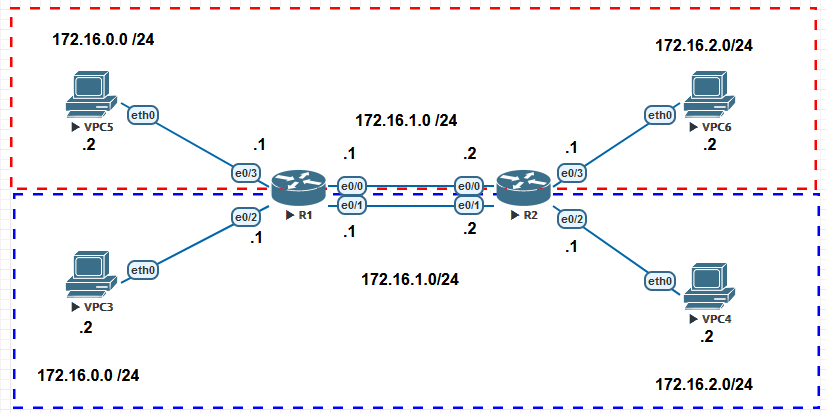
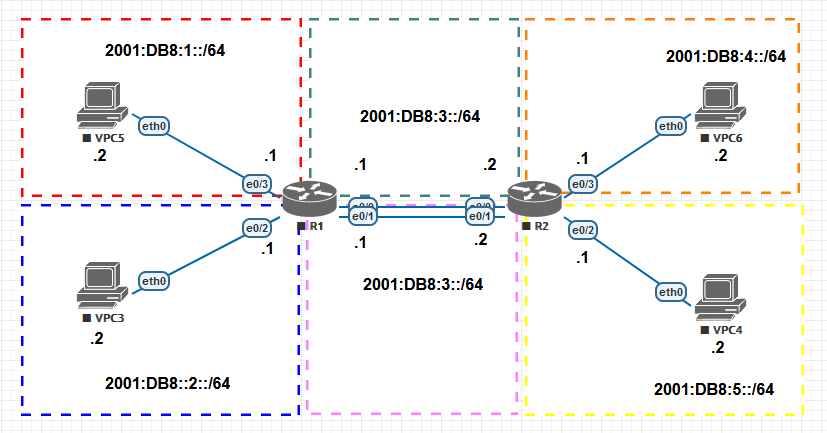
Alterado o arquivo readme.md

diff --git a/CCNP 350-401 ENCOR/02 - Virtualization/14 - Exemplo Pratico VRF LITE 04 - IPV6/README.md b/CCNP 350-401 ENCOR/02 - Virtualization/14 - Exemplo Pratico VRF LITE 04 - IPV6/README.md
@@ -1,116 +1,6 @@
 # 14 - Exemplo Pratico VRF LITE 04 - IPV6
 
-Aqui não vou me alongar muito nas explicações e vou direto a prática. Para esse segundo exemplo vou utilizar o mesmo cenário doe exemplo anterior.
+Agora eu estou utilizando o mesmo cenário anterior porém eu estou utilizando IPv6. Também nos hosts não vou mais "duplicar" os endereços IPv6, somente nas interfaces que ligam os roteadores. <br></br>  
 
 ![CENÁRIO](Imagens/01.png) <br></br>
 
-No exemplo anterior eu criei duas VRFs em cada roteador e escolhi utilizar rotas estáticas como meio de roteamento. Mas sabemos que para a parte de roteamento podemos utilizar protocolos dinâmicos para isso. Então, como parte da pratica, vou remover as configurações e vou começar do zero. <br></br>
-Então vamos entrar no roteador 01 e mostrar as configurações das vrfs e as suas tabelas de roteamento. <br></br> 
-
-<table>
-       <tr>
-           <td width="33%"><img src="Imagens/R01/01.png"></img></td>
-           <td width="33%"><img src="Imagens/R01/02.png"></img></td>
-           <td width="33%"><img src="Imagens/R01/03.png"></img></td>
-       </tr>
-</table>
-
-Agora vamos remover as rotas estáticas e as vrfs.<br></br>
-
-<table>
-       <tr>
-           <td width="50%"><img src="Imagens/R01/04.png"></img></td>
-           <td width="50%"><img src="Imagens/R01/05.png"></img></td>
-       </tr>
-</table>
-
-Então agora devemos remover as vrfs. Note que ao retirarmos as vrfs de R01, automaticamente nos é apresentada a mensagem de que os ips são removidos das interfaces e com isso, as interfaces perdem também as associações com as vrfs.<br></br>
-
-<table>
-       <tr>
-           <td width="50%"><img src="Imagens/R01/06.png"></img></td>
-           <td width="50%"><img src="Imagens/R01/07.png"></img></td>
-       </tr>
-</table>
-
-O mesmo processo deverá ser realizado em R02.<br></br>
-Bom, como agora temos os roteadores configurados na condição inicial (sem VRFs, só com a tabela de roteamento global), então vamos configurar as VRFs 1 e 2 nos roteadores R01 e R02. Sim esse processo já foi feito anteriormente e não muda em nada, mas como trata-se de prática, quantos mais praticamos, mais fixamos os conceitos e comandos. Então vamos-lá. <br><br>
-
-<table>
-       <tr>
-           <td width="50%"><img src="Imagens/R01/08.png"></img></td>
-           <td width="50%"><img src="Imagens/R01/09.png"></img></td>
-       </tr>
-</table>
-
-Novamente, devemos proceder com os mesmos comandos em R02.<br></br>
-Veja como ficou em R02.<br></br>
-
-![R02](Imagens/R02/01.png) <br></br>
-
-Agora é só configurarmos os endereços de ip nas interfaces, uma vez que já criamos as VRFs e já associamos as devidas interfaces. Veja como ficaram as VRFs depois de configurarmos os endereços IP. <br></br>
-
-<table>
-       <tr>
-           <td width="50%">ROTEADOR R01</td>
-           <td width="50%">ROTEADOR R02</td>
-       </tr>
-       <tr>
-           <td width="50%"><img src="Imagens/R01/10.png"></img></td>
-           <td width="50%"><img src="Imagens/R02/02.png"></img></td>
-       </tr>
-</table>
-
-Até aqui confesso que é pura e simples repetição do laboratório anterior. Mas agora vamos entrar na parte de roteamento. Agora vou utilizar protocolos dinâmicos. <br></br>
-
-## Enhanced Interior Gateway Routing Protocol (EIGRP)
-
-Agora aqui como opção de Roteamento Dinâmico escolhemos o EIGRP. Então vamos acessar o roteador R01 e vamos configurar esse protocolo. <br></br>
-
-![R01](Imagens/EIGRP/R01/01.png) <br></br>
-![R01](Imagens/EIGRP/R01/02.png) <br></br>
-
-Percebam agora que a configuração é feita dentro da **definição da VRF dentro do parâmetro address-family** mas, basicamente é a mesma configuração que é realizada quando não se configuram as VRFs. <br></br>
-
-Eu acho essa abordagem um pouco confusa e então prefiro realizar as configurações dentro das definições do protocolo eigrp. Dentro dele vamos ter também a **definição da VRF dentro do parâmetro address-family**. Agora aqui cabe um parênteses. Por questões de estabilidade, vou criar duas interfaces LoopBack, uma para cada VRF. Como elas sempre ficam no estado de up, elas ajudam a manter a estabilidade do processo de roteamento. <br><br>
-
-![R01](Imagens/EIGRP/R01/03.png) <br></br>
-![R02](Imagens/EIGRP/R02/01.png) <br></br>
-
-Bom configuramos as interfaces e agora vou entrar no processo de roteamento EIGRP. Mas antes de mais nada, vou relembrar que o IGRP possui um número de processo e, os roteadores que estão na mesma área precisam ter o mesmo número do processo para que a vizinhança seja estabelecida. Outro ponto que vale ressaltar é que todo processo de EIGRP possui um número de **id que é escrito no formato do ipv4**. Esse parâmetro serve para identificar e distinguir cada roteador no processo do EIGRP. Serve também para a **Eleição do Sucessor e do Sucessor do Feasible (FS e FDS)**. Como estamos configurando o EIGRP em VRF, aqui teremos uma leve mudança, que é bem importante. Então vamos as configurações. <br></brwr>
-
-<table>
-       <tr>
-           <td width="50%">ROTEADOR R01</td>
-           <td width="50%">ROTEADOR R01</td>
-       </tr>
-       <tr>
-           <td width="50%"><img src="Imagens/EIGRP/R01/04.png"></img></td>
-           <td width="50%"><img src="Imagens/EIGRP/R01/05.png"></img></td>
-       </tr> 
-       <tr>
-           <td width="50%">ROTEADOR R02</td>
-           <td width="50%">ROTEADOR R02</td>
-       </tr>   
-       <tr>
-           <td width="50%"><img src="Imagens/EIGRP/R02/02.png"></img></td>
-           <td width="50%"><img src="Imagens/EIGRP/R02/03.png"></img></td>
-       </tr> 
-</table>
-
-Então podemos notar que dentro do parâmetro address-family adicionamos o parâmetro **autonomous-system**. Esse parâmetro é o mesmo parâmetro quando digitamos **router eigrp nº do processo**. Tanto o EIGRP quanto autonomous-system precisam ter o mesmo número pois esse é o número do processo do EIGRP que vai rodar dentro da caixa. Então vamos analisar agora como ficaram as tabelas de roteamento. <br></br>
-
-<table>
-       <tr>
-           <td width="50%">ROTEADOR R01</td>
-           <td width="50%">ROTEADOR R02</td>
-       </tr>
-       <tr>
-           <td width="50%"><img src="Imagens/EIGRP/R01/06.png"></img></td>
-           <td width="50%"><img src="Imagens/EIGRP/R02/04.png"></img></td>
-       </tr>
-</table>
-
-Agora vamos acessar o vpc1 e realizar um teste. <br></br>
-
-![VPC1](Imagens/03.png)<br></br>
